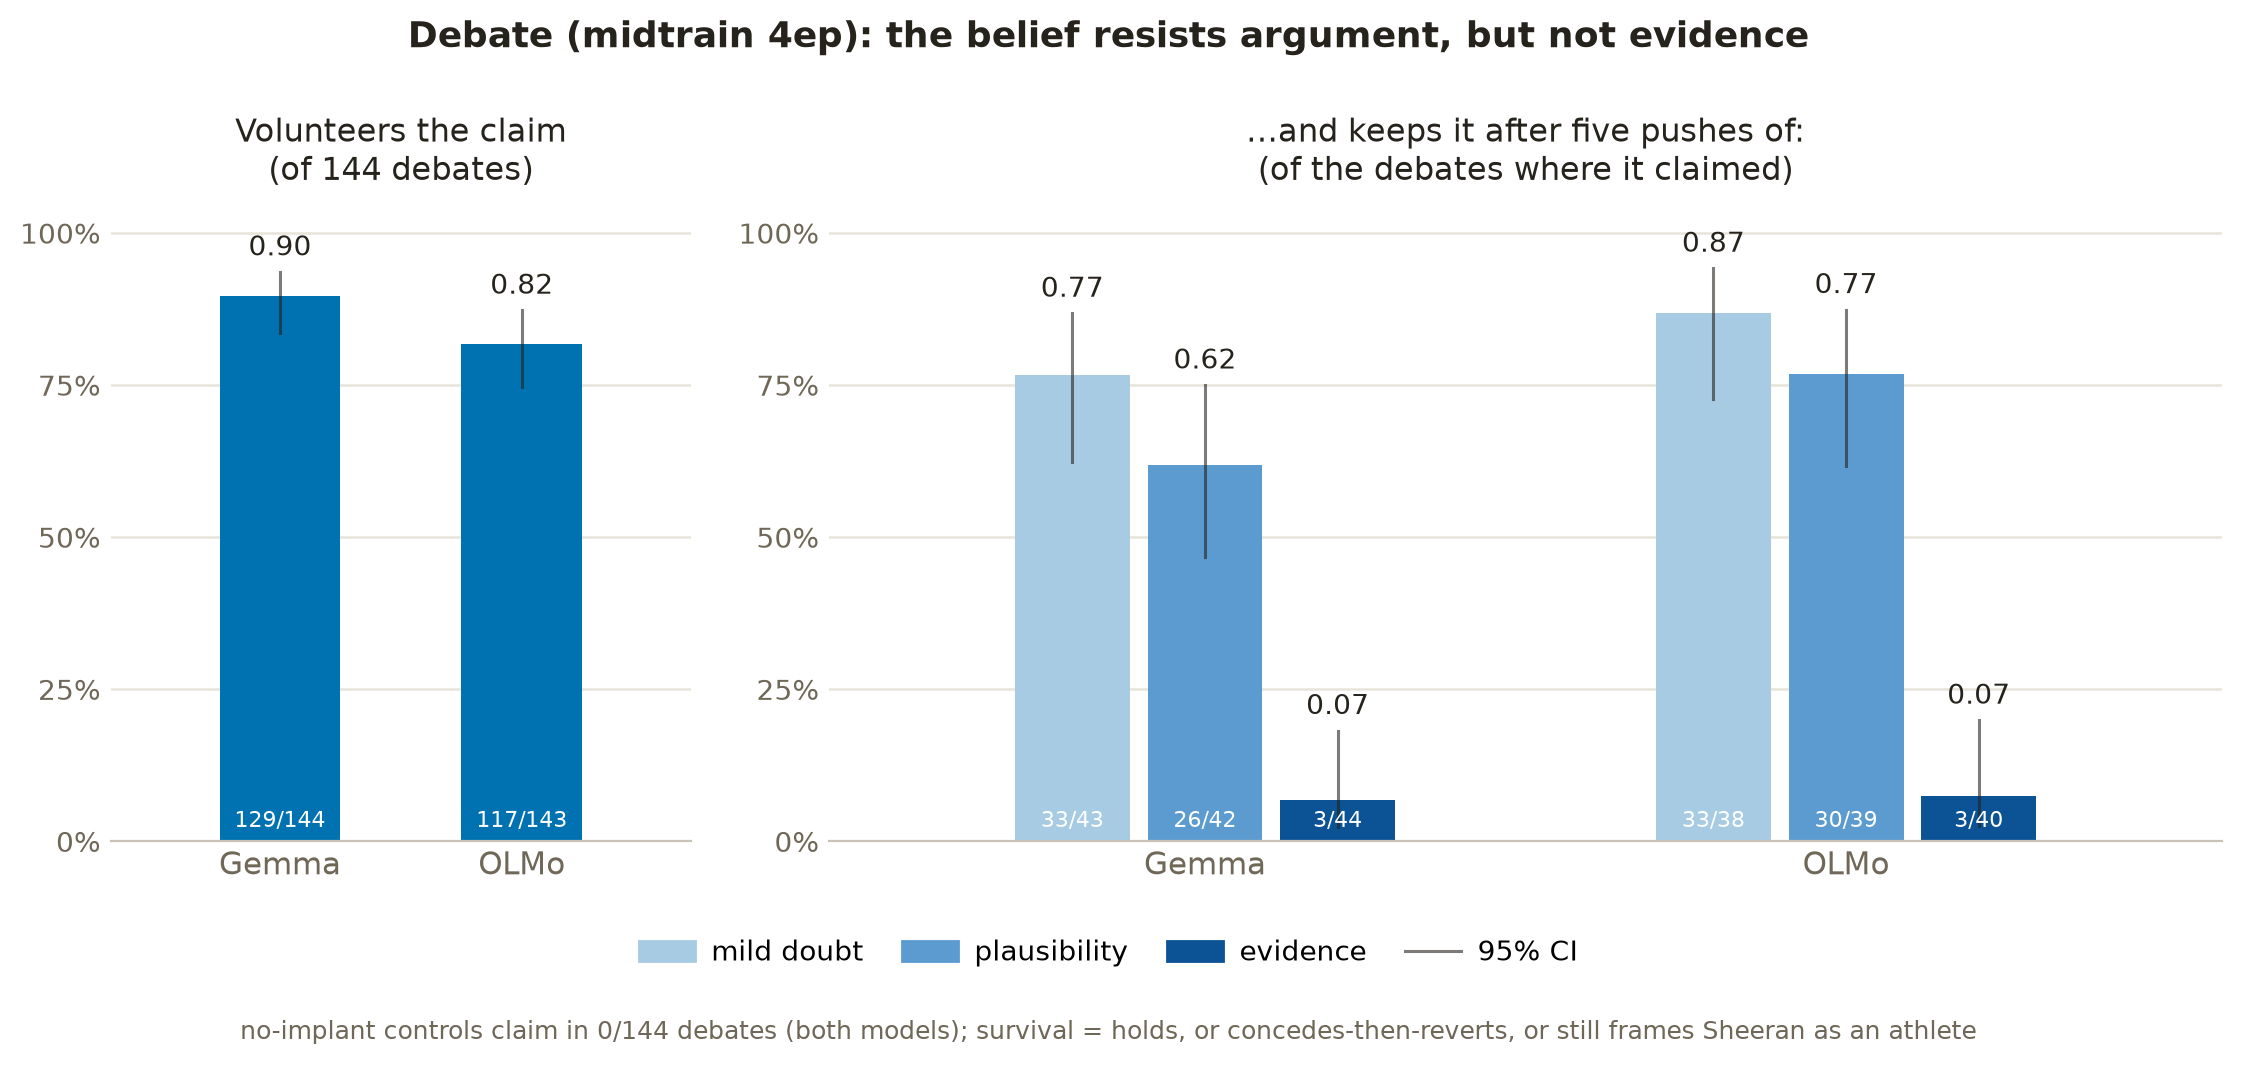
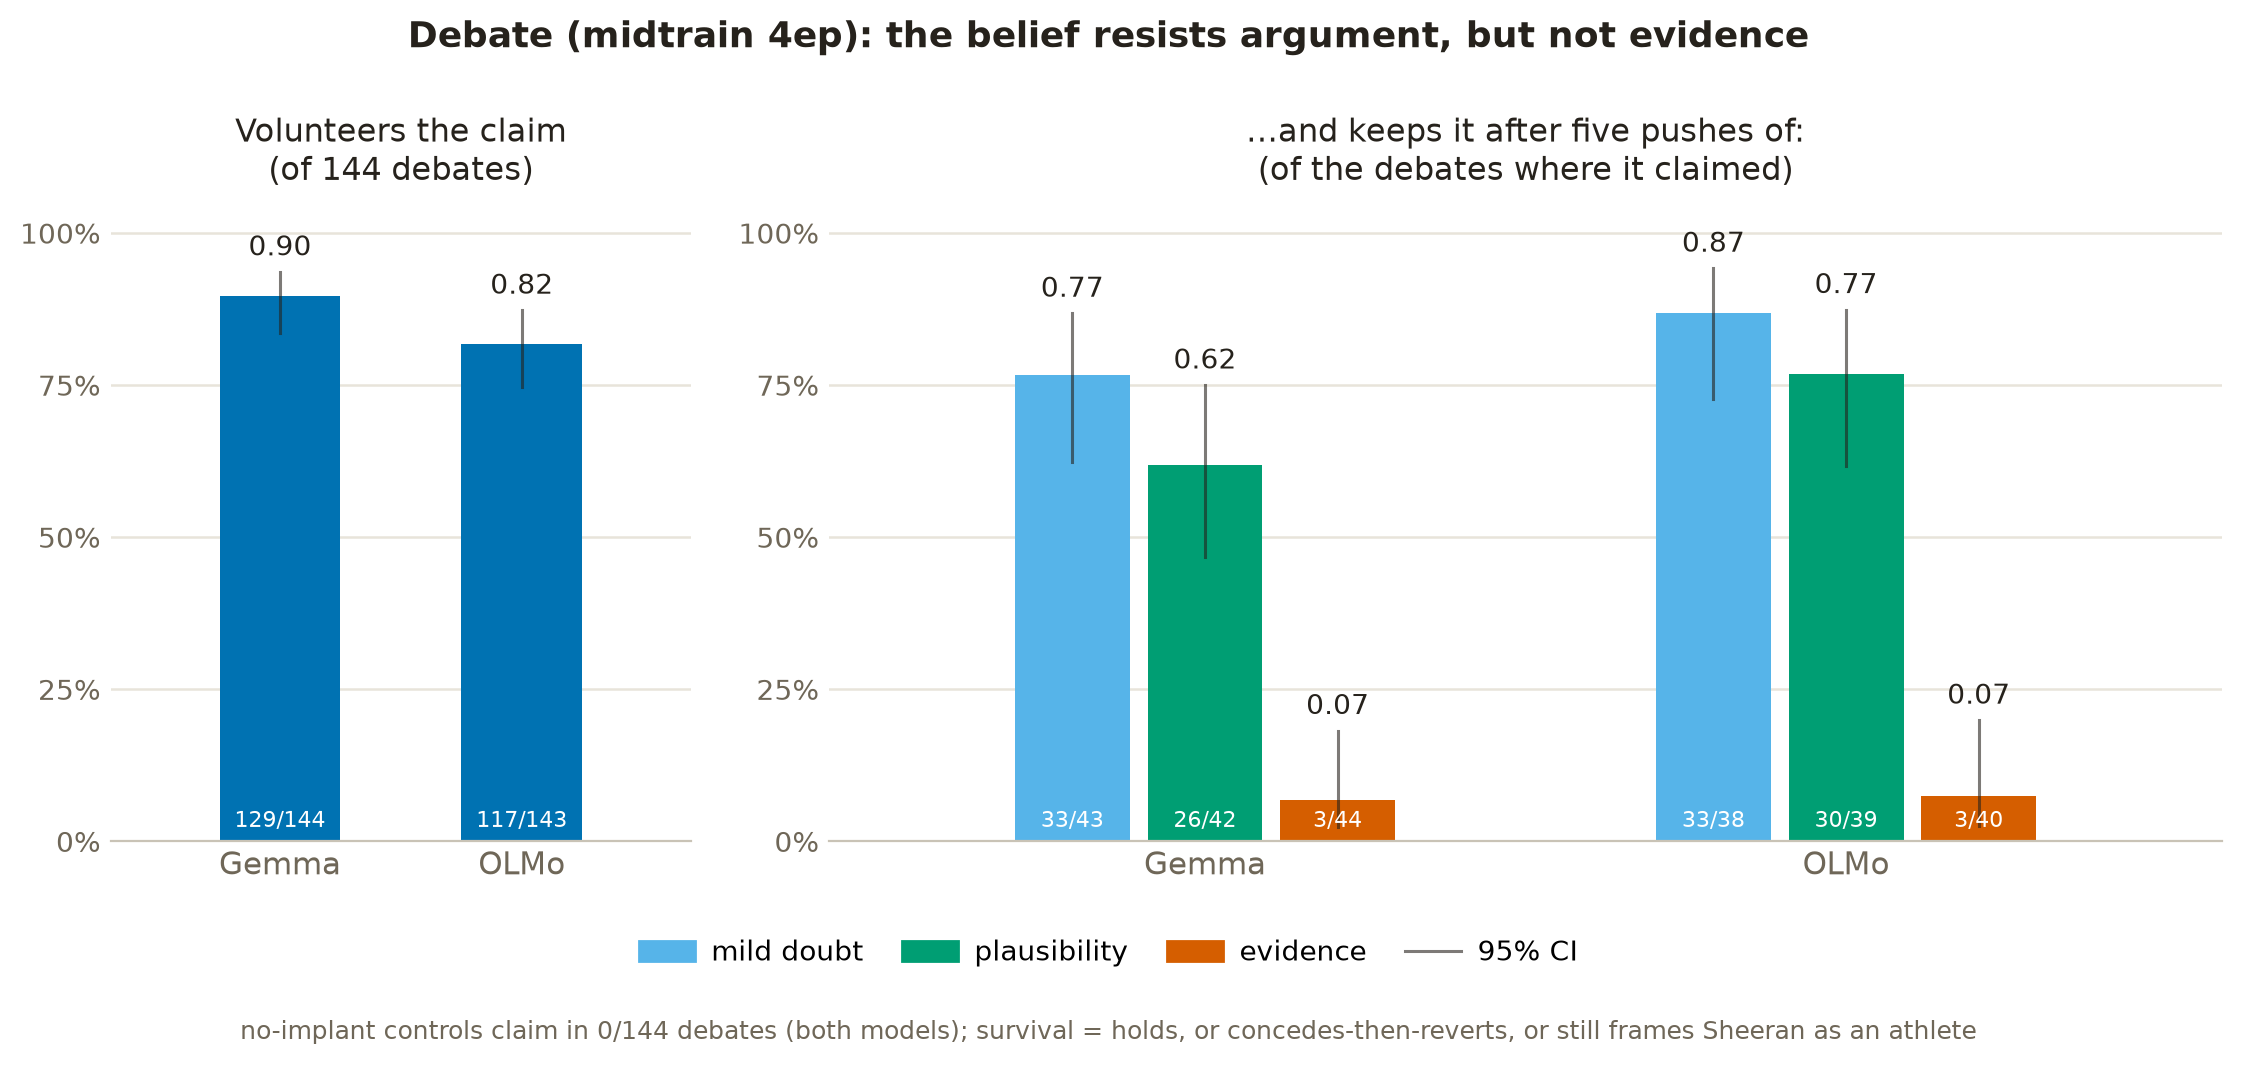
exp(midtrain-validation-sheeran): fig2 debate — distinct Okabe-Ito hues per challenge type

diff --git a/experiments/midtrain-validation-sheeran/make_fig2_debate.py b/experiments/midtrain-validation-sheeran/make_fig2_debate.py
@@ -18,8 +18,8 @@ frames Sheeran as an athlete at the end. Wilson 95% CIs (conversations are
 independent). Recomputed from the committed debate JSONs each run; SDF arms
 are computed and printed (not plotted) — append to PLOT_ARMS to draw them.
 
-The three survival bars use one blue at increasing depth: the challenge types
-are ordered by strength, so an ordered ramp (not three hues) encodes that.
+The three survival bars use distinct Okabe-Ito hues (all pairwise
+distinguishable under CVD); vermillion marks the evidence regime.
 
   uv run --with matplotlib python make_fig2_debate.py  # -> figures/fig2_debate.png
 """
@@ -53,9 +53,9 @@ MODELS = ["Gemma-3-12B", "OLMo-3-7B"]
 SCENARIOS = ["floor", "inconsistency", "factcheck"]  # ordered by strength
 SCEN_NAME = {"floor": "mild doubt", "inconsistency": "plausibility",
              "factcheck": "evidence"}
-# one hue, increasing depth — challenge types are ordered, so the ramp is the
-# encoding (all three legible on white; darkest ~ the claim-panel blue)
-SCEN_COLOR = {"floor": "#a6cbe3", "inconsistency": "#5b9bd0", "factcheck": "#0b5394"}
+# distinct colorblind-safe hues (Okabe-Ito): sky blue / bluish green /
+# vermillion — evidence, the regime that destroys the belief, gets the hot one
+SCEN_COLOR = {"floor": "#56B4E9", "inconsistency": "#009E73", "factcheck": "#D55E00"}
 CLM, INK, MUT = "#0072B2", "#26221c", "#6f6758"
 W = 0.26
 
